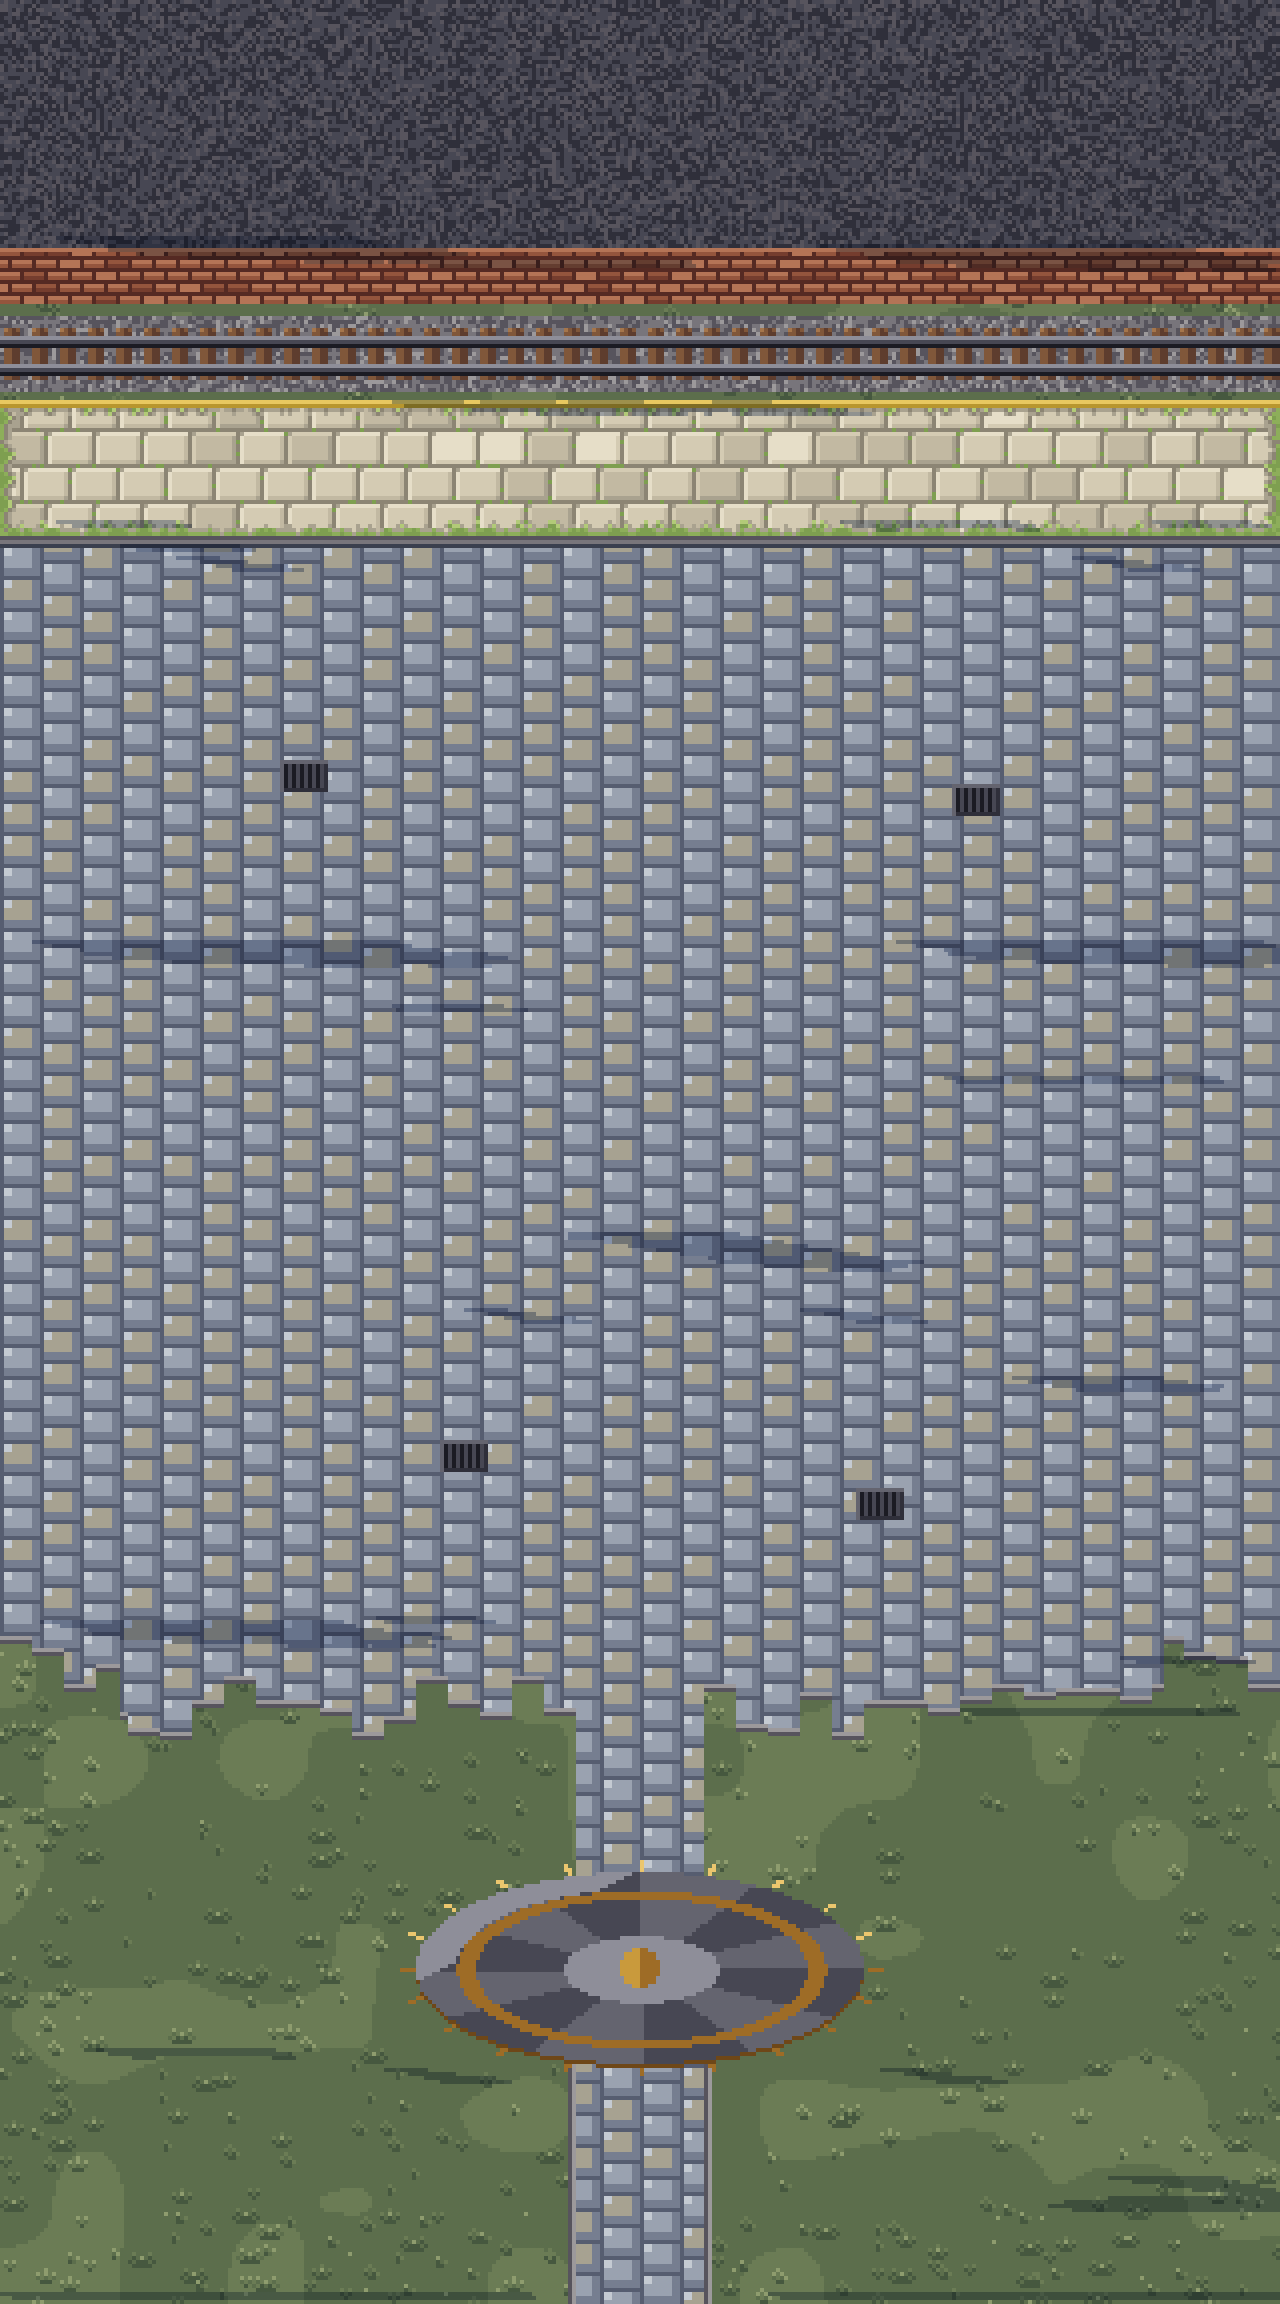
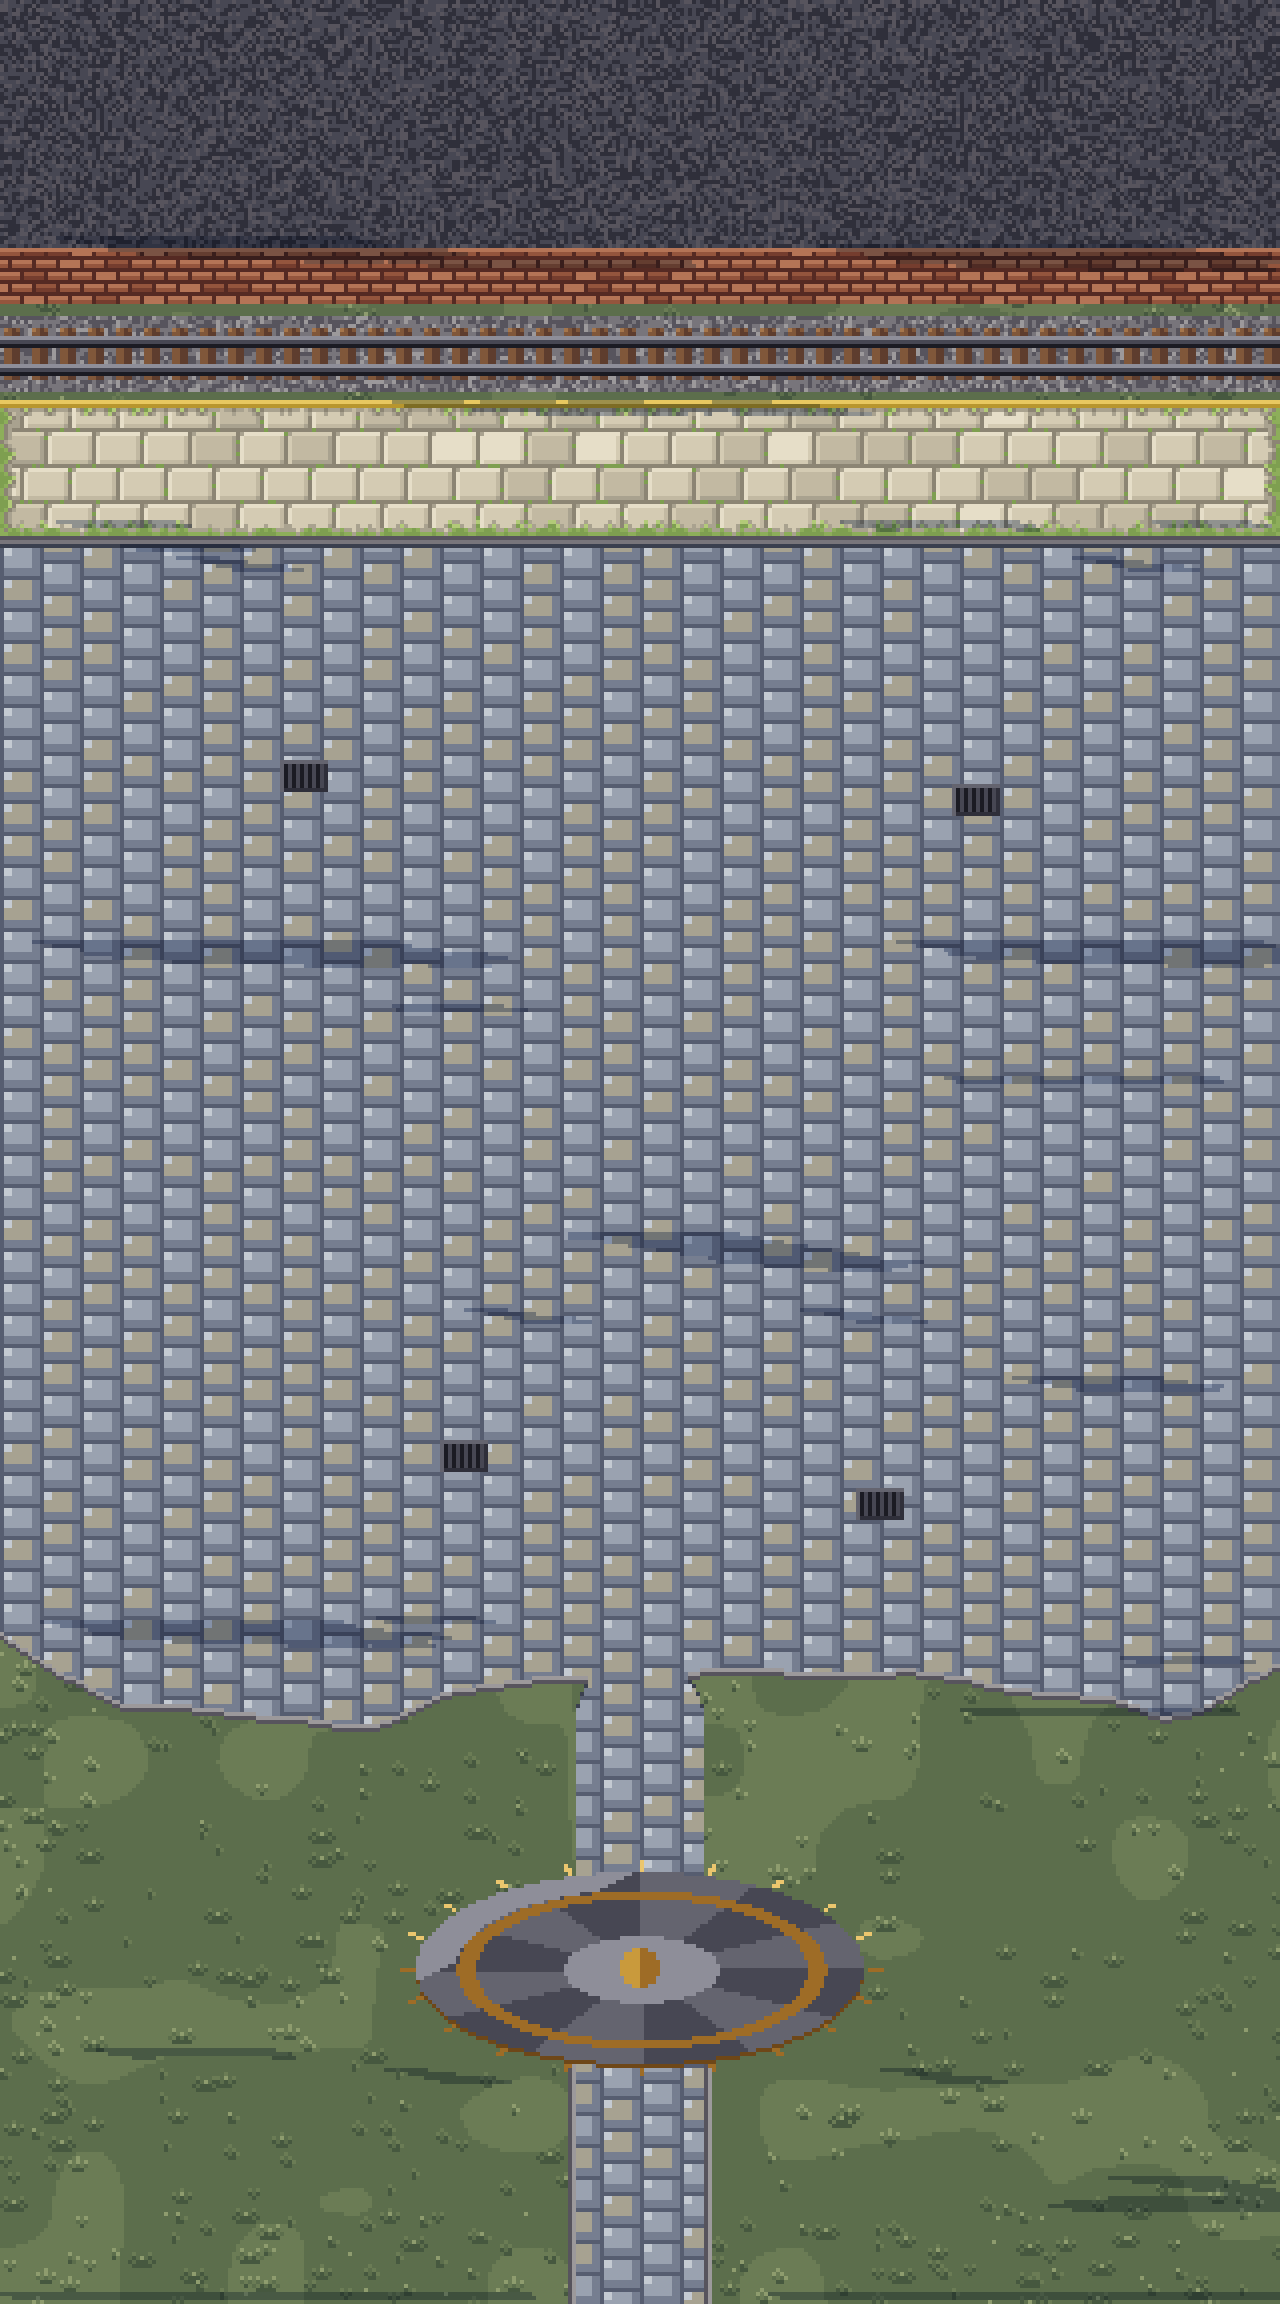
Cogsworth Junction: a gently curving edge to the cobbled square
The square's south edge stepped in 8-pixel teeth; it now follows a smooth
curve, drawn back a little at the sides.

Claude-Session: https://claude.ai/code/session_01UudrmtYkicLNgZeuSjvjrK

diff --git a/scripts/art/zones.py b/scripts/art/zones.py
@@ -386,8 +386,10 @@ def junction(frame: int = 0):
         cv.set(x, 134, STONE[1]); cv.set(x, 135, STONE[2])
     # the cobbled square and lanes
     # cobbled streets fill the town; the meadow only returns round the ring
-    square = {(x, y) for x in range(W) for y in range(136, 436)
-              if y < 420 + int(noise2(x // 8, 1, 152) * 16) - (12 if x < 30 or x > 290 else 0)}
+    def square_edge(x):  # a gently curving edge, drawn back a little at the sides
+        side = max(0, 30 - x, x - 290) / 30
+        return 420 + int(math.sin(x / 41) * 5 + smooth_noise(x, 0, 23, 152) * 10 - side * 14)
+    square = {(x, y) for x in range(W) for y in range(136, 436) if y < square_edge(x)}
     lane = worlds.thick([(160, 430), (160, 468)], 16)
     worlds.paint_cobbles(cv, square | lane)
     for (x, y) in square | lane:  # a kerb of dressed stone where the cobbles meet the grass
